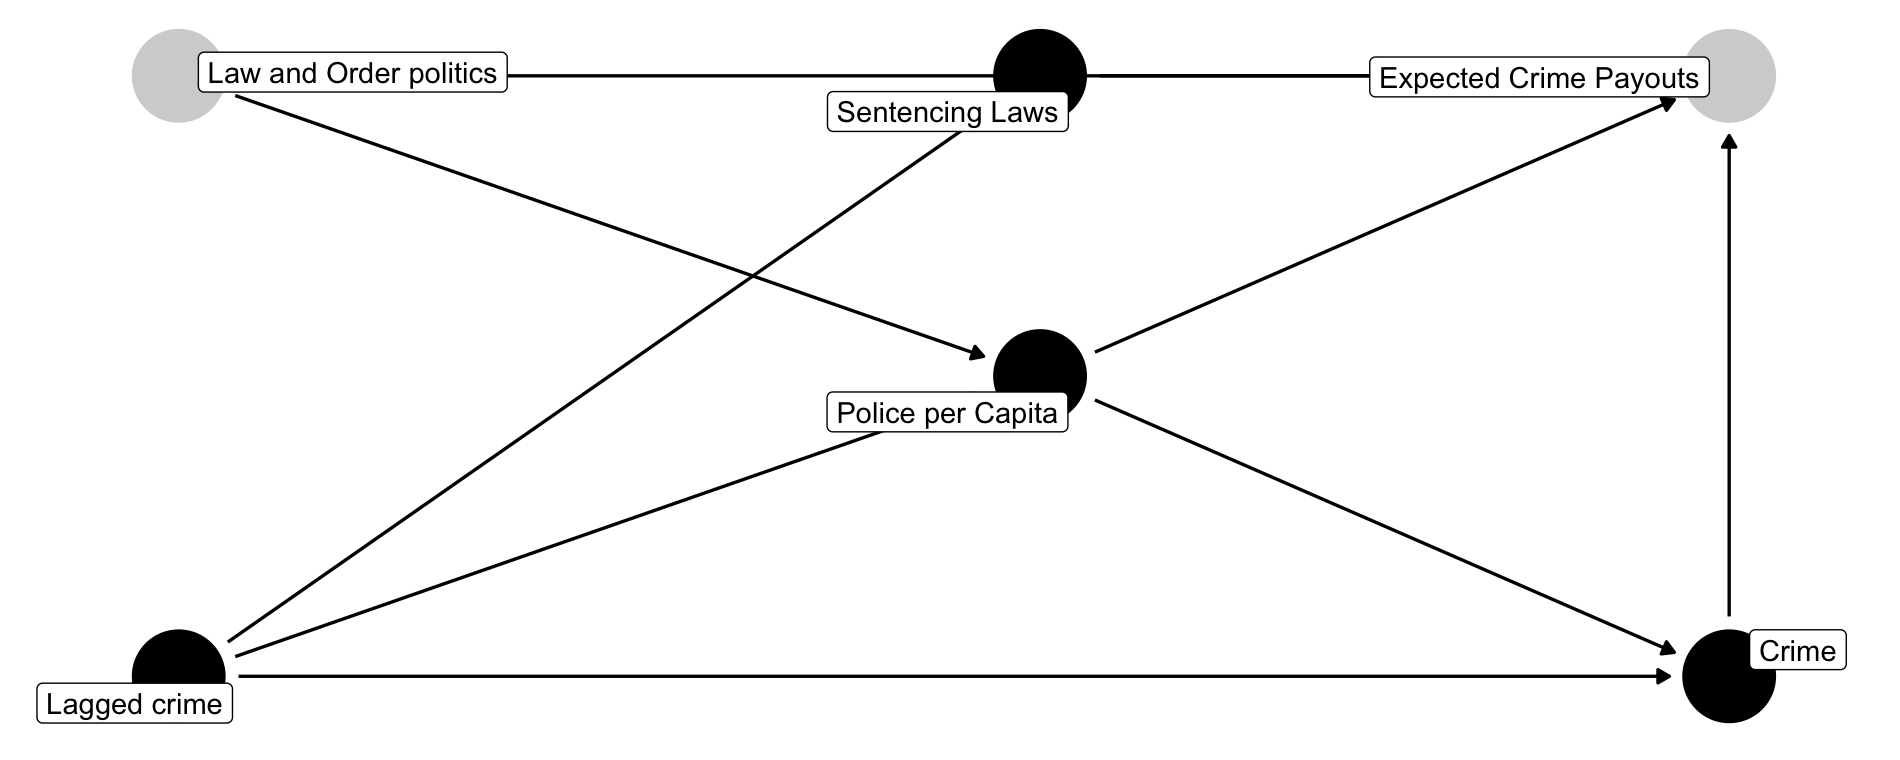
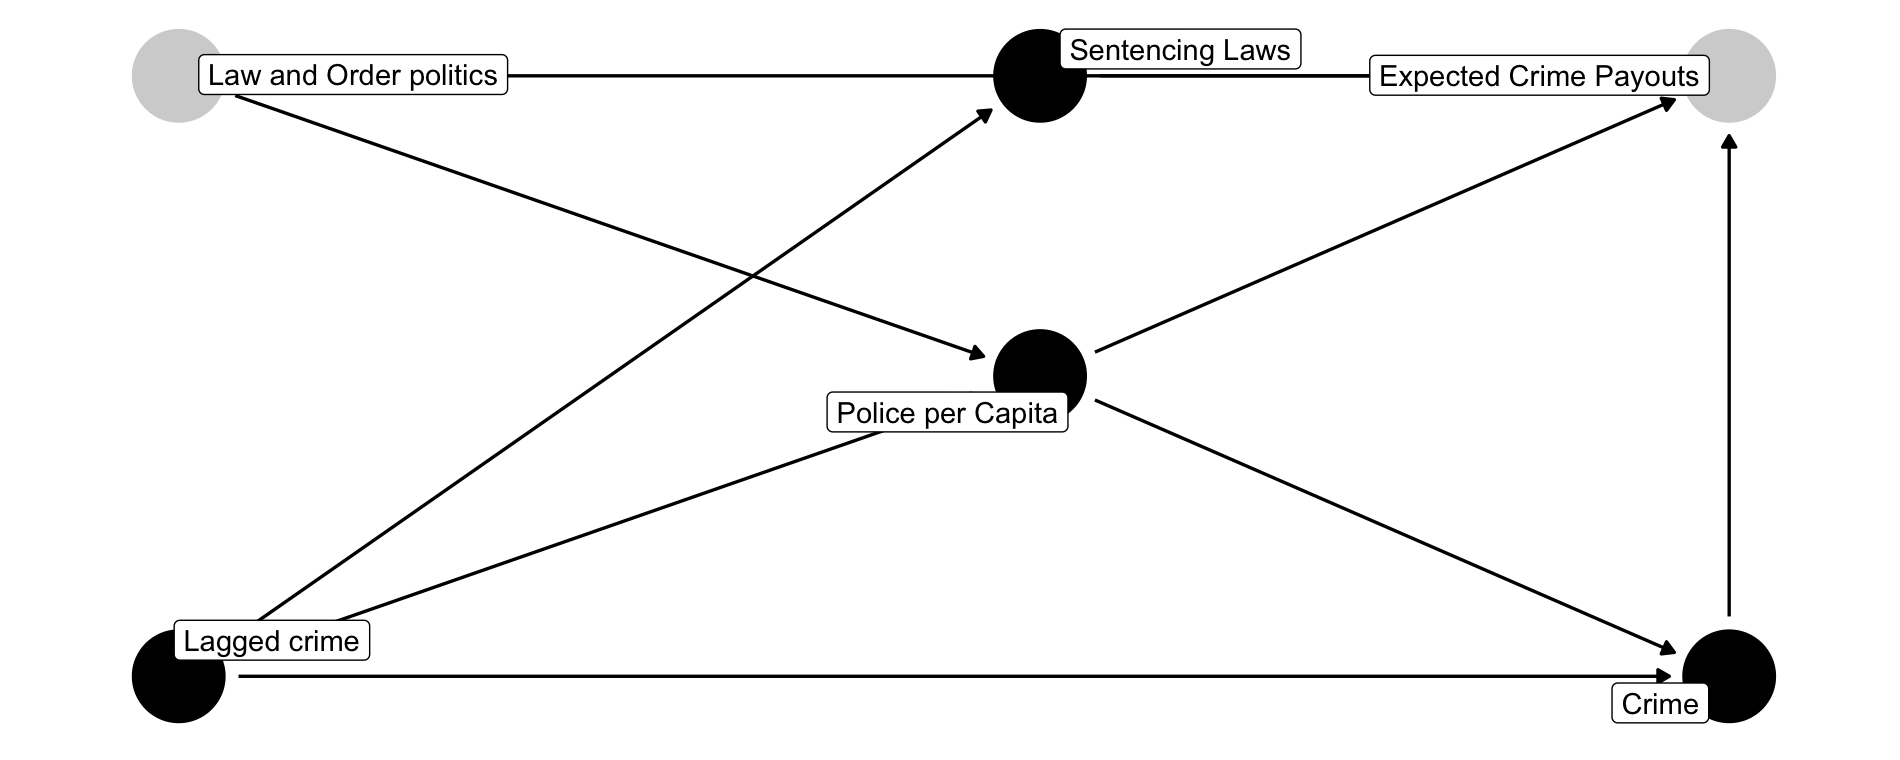
fixed wrong arrow in dot file

diff --git a/CausalDiagrams/CausalDiagrams.html b/CausalDiagrams/CausalDiagrams.html
@@ -311,11 +311,11 @@ We have...
 
 
 &lt;div class="figure"&gt;
-<div id="htmlwidget-585c974b2ac8d1cc6932" style="width:100%;height:80px;" class="grViz html-widget "></div>
+<div id="htmlwidget-5c3f3e3c99334aa8fd1a" style="width:100%;height:80px;" class="grViz html-widget "></div>
 <script>HTMLWidgets.pymChild = new pym.Child();HTMLWidgets.addPostRenderHandler(function(){
                                 setTimeout(function(){HTMLWidgets.pymChild.sendHeight();},100);
                             });</script>
-<script type="application/json" data-for="htmlwidget-585c974b2ac8d1cc6932">{"x":{"diagram":"digraph \"Causal Diagramm RDD\" {\n  layout=neato\n  fontname=\"Helvetica,Arial,sans-serif\"\n  bgcolor=transparent\n  imagescale=both\n  node [fontname=\"Helvetica,Arial,sans-serif\"]\n  edge [fontname=\"Helvetica,Arial,sans-serif\"]\n  node [shape=none];\n  \"Coin flip (X)\" [pos=\"0,1!\"]\n  \"Cake (Y)\" [pos=\"3,1!\"]\n  \"Coin flip (X)\" -> \"Cake (Y)\"\n  \n}","config":{"engine":"dot","options":null}},"evals":[],"jsHooks":[]}</script>
+<script type="application/json" data-for="htmlwidget-5c3f3e3c99334aa8fd1a">{"x":{"diagram":"digraph \"Causal Diagramm RDD\" {\n  layout=neato\n  fontname=\"Helvetica,Arial,sans-serif\"\n  bgcolor=transparent\n  imagescale=both\n  node [fontname=\"Helvetica,Arial,sans-serif\"]\n  edge [fontname=\"Helvetica,Arial,sans-serif\"]\n  node [shape=none];\n  \"Coin flip (X)\" [pos=\"0,1!\"]\n  \"Cake (Y)\" [pos=\"3,1!\"]\n  \"Coin flip (X)\" -> \"Cake (Y)\"\n  \n}","config":{"engine":"dot","options":null}},"evals":[],"jsHooks":[]}</script>
 &lt;p class="caption"&gt;2: A simple causal diagram&lt;/p&gt;
 &lt;/div&gt;
 
@@ -353,11 +353,11 @@ Ice-cream sales (X) are high when people wear shorts (Y). However, there is no c
 
 &lt;br&gt;
 &lt;div class="figure"&gt;
-<div id="htmlwidget-8b4c2d4cca7812889d53" style="width:100%;height:200px;" class="grViz html-widget "></div>
+<div id="htmlwidget-ce2e313980d19188c66b" style="width:100%;height:200px;" class="grViz html-widget "></div>
 <script>HTMLWidgets.pymChild = new pym.Child();HTMLWidgets.addPostRenderHandler(function(){
                                 setTimeout(function(){HTMLWidgets.pymChild.sendHeight();},100);
                             });</script>
-<script type="application/json" data-for="htmlwidget-8b4c2d4cca7812889d53">{"x":{"diagram":"digraph \"Causal Diagramm RDD\" {\n  layout=neato\n  fontname=\"Helvetica,Arial,sans-serif\"\n  bgcolor=transparent\n  imagescale=both\n  node [fontname=\"Helvetica,Arial,sans-serif\"]\n  edge [fontname=\"Helvetica,Arial,sans-serif\"]\n  node [shape=none];\n  \"Weather (U)\" [pos=\"1,1!\"]\n  \"Shorts (X)\" [pos=\"0,0!\"]\n  \"Ice-Cream (Y)\" [pos=\"2,0!\"]\n  \"Weather (U)\" -> \"Shorts (X)\"\n  \"Weather (U)\" -> \"Ice-Cream (Y)\"\n  \n}","config":{"engine":"dot","options":null}},"evals":[],"jsHooks":[]}</script>
+<script type="application/json" data-for="htmlwidget-ce2e313980d19188c66b">{"x":{"diagram":"digraph \"Causal Diagramm RDD\" {\n  layout=neato\n  fontname=\"Helvetica,Arial,sans-serif\"\n  bgcolor=transparent\n  imagescale=both\n  node [fontname=\"Helvetica,Arial,sans-serif\"]\n  edge [fontname=\"Helvetica,Arial,sans-serif\"]\n  node [shape=none];\n  \"Weather (U)\" [pos=\"1,1!\"]\n  \"Shorts (X)\" [pos=\"0,0!\"]\n  \"Ice-Cream (Y)\" [pos=\"2,0!\"]\n  \"Weather (U)\" -> \"Shorts (X)\"\n  \"Weather (U)\" -> \"Ice-Cream (Y)\"\n  \n}","config":{"engine":"dot","options":null}},"evals":[],"jsHooks":[]}</script>
 &lt;p class="caption"&gt;4: Unobserved variable&lt;/p&gt;
 &lt;/div&gt;
 
@@ -406,11 +406,11 @@ It's a balancing act &amp;mdash; omitting movies is okay, omitting the poverty r
 
 &lt;br&gt;&lt;br&gt;
 &lt;div class="figure"&gt;
-<div id="htmlwidget-3d6b2195f41aa1b2ed4f" style="width:100%;height:350px;" class="grViz html-widget "></div>
+<div id="htmlwidget-7e47b306137b6c94983e" style="width:100%;height:350px;" class="grViz html-widget "></div>
 <script>HTMLWidgets.pymChild = new pym.Child();HTMLWidgets.addPostRenderHandler(function(){
                                 setTimeout(function(){HTMLWidgets.pymChild.sendHeight();},100);
                             });</script>
-<script type="application/json" data-for="htmlwidget-3d6b2195f41aa1b2ed4f">{"x":{"diagram":"digraph \"Causal Diagramm RDD\" {\n  layout=neato\n  fontname=\"Helvetica,Arial,sans-serif\"\n   bgcolor=transparent\n  imagescale=both\n  fontsize=25\n  node [fontname=\"Helvetica,Arial,sans-serif\"]\n  edge [fontname=\"Helvetica,Arial,sans-serif\"]\n  node [shape=none];\n  \"Law and Order politics\" [pos=\"0,2!\",  fontcolor=\"red\"]\n  \"Sentencing Laws\" [pos=\"3,2!\"]\n  \"Expected Crime Payouts\" [pos=\"6,2!\", fontcolor=\"red\"]\n   \"Police per Capita\" [pos=\"3,1!\"]\n  \"Lagged crime\" [pos=\"0,0!\"]\n  \"Crime\" [pos=\"6,0!\"]\n  \"Law and Order politics\" -> \"Police per Capita\"\n  \"Lagged crime\" -> \"Sentencing Laws\"\n  \"Law and Order politics\" -> \"Sentencing Laws\"\n  \"Lagged crime\" -> \"Police per Capita\" \n  \"Lagged crime\" -> \"Crime\"\n  \"Sentencing Laws\" ->  \"Expected Crime Payouts\"\n  \"Crime\"  -> \"Expected Crime Payouts\"\n  \"Police per Capita\" -> \"Expected Crime Payouts\"\n  \"Police per Capita\" -> \"Crime\"\n}","config":{"engine":"dot","options":null}},"evals":[],"jsHooks":[]}</script>
+<script type="application/json" data-for="htmlwidget-7e47b306137b6c94983e">{"x":{"diagram":"digraph \"Causal Diagramm RDD\" {\n  layout=neato\n  fontname=\"Helvetica,Arial,sans-serif\"\n   bgcolor=transparent\n  imagescale=both\n  fontsize=25\n  node [fontname=\"Helvetica,Arial,sans-serif\"]\n  edge [fontname=\"Helvetica,Arial,sans-serif\"]\n  node [shape=none];\n  \"Law and Order politics\" [pos=\"0,2!\",  fontcolor=\"red\"]\n  \"Sentencing Laws\" [pos=\"3,2!\"]\n  \"Expected Crime Payouts\" [pos=\"6,2!\", fontcolor=\"red\"]\n   \"Police per Capita\" [pos=\"3,1!\"]\n  \"Lagged crime\" [pos=\"0,0!\"]\n  \"Crime\" [pos=\"6,0!\"]\n  \"Law and Order politics\" -> \"Police per Capita\"\n  \"Lagged crime\" -> \"Sentencing Laws\"\n  \"Law and Order politics\" -> \"Sentencing Laws\"\n  \"Lagged crime\" -> \"Police per Capita\" \n  \"Lagged crime\" -> \"Crime\"\n  \"Sentencing Laws\" ->  \"Expected Crime Payouts\"\n  \"Expected Crime Payouts\" -> \"Crime\"\n  \"Police per Capita\" -> \"Expected Crime Payouts\"\n  \"Police per Capita\" -> \"Crime\"\n}","config":{"engine":"dot","options":null}},"evals":[],"jsHooks":[]}</script>
 &lt;p class="caption"&gt;7: Police presence and crime rate&lt;/p&gt;
 &lt;/div&gt;
 
@@ -458,11 +458,11 @@ Moderators are variables that do not necessarily cause another variable (althoug
 
 &lt;br&gt;
 &lt;div class="figure"&gt;
-<div id="htmlwidget-37611eca982cf10ad345" style="width:100%;height:250px;" class="grViz html-widget "></div>
+<div id="htmlwidget-dc51dfaebefa094b6551" style="width:100%;height:250px;" class="grViz html-widget "></div>
 <script>HTMLWidgets.pymChild = new pym.Child();HTMLWidgets.addPostRenderHandler(function(){
                                 setTimeout(function(){HTMLWidgets.pymChild.sendHeight();},100);
                             });</script>
-<script type="application/json" data-for="htmlwidget-37611eca982cf10ad345">{"x":{"diagram":"digraph \"Causal Diagramm RDD\" {\n  layout=neato\n  fontname=\"Helvetica,Arial,sans-serif\"\n   bgcolor=transparent\n  imagescale=both\n  node [fontname=\"Helvetica,Arial,sans-serif\"]\n  edge [fontname=\"Helvetica,Arial,sans-serif\"]\n  node [shape=none];\n  \"X\" [pos=\"0,1!\"]\n  \"Y\" [pos=\"1,0!\"]\n  \"Z\" [pos=\"2,1!\"]\n  \"X\" -> \"Y\"\n  \"Z\" -> \"Y\"\n}","config":{"engine":"dot","options":null}},"evals":[],"jsHooks":[]}</script>
+<script type="application/json" data-for="htmlwidget-dc51dfaebefa094b6551">{"x":{"diagram":"digraph \"Causal Diagramm RDD\" {\n  layout=neato\n  fontname=\"Helvetica,Arial,sans-serif\"\n   bgcolor=transparent\n  imagescale=both\n  node [fontname=\"Helvetica,Arial,sans-serif\"]\n  edge [fontname=\"Helvetica,Arial,sans-serif\"]\n  node [shape=none];\n  \"X\" [pos=\"0,1!\"]\n  \"Y\" [pos=\"1,0!\"]\n  \"Z\" [pos=\"2,1!\"]\n  \"X\" -> \"Y\"\n  \"Z\" -> \"Y\"\n}","config":{"engine":"dot","options":null}},"evals":[],"jsHooks":[]}</script>
 &lt;p class="caption"&gt;9: Z moderates X&lt;/p&gt;
 &lt;/div&gt;
 ---
